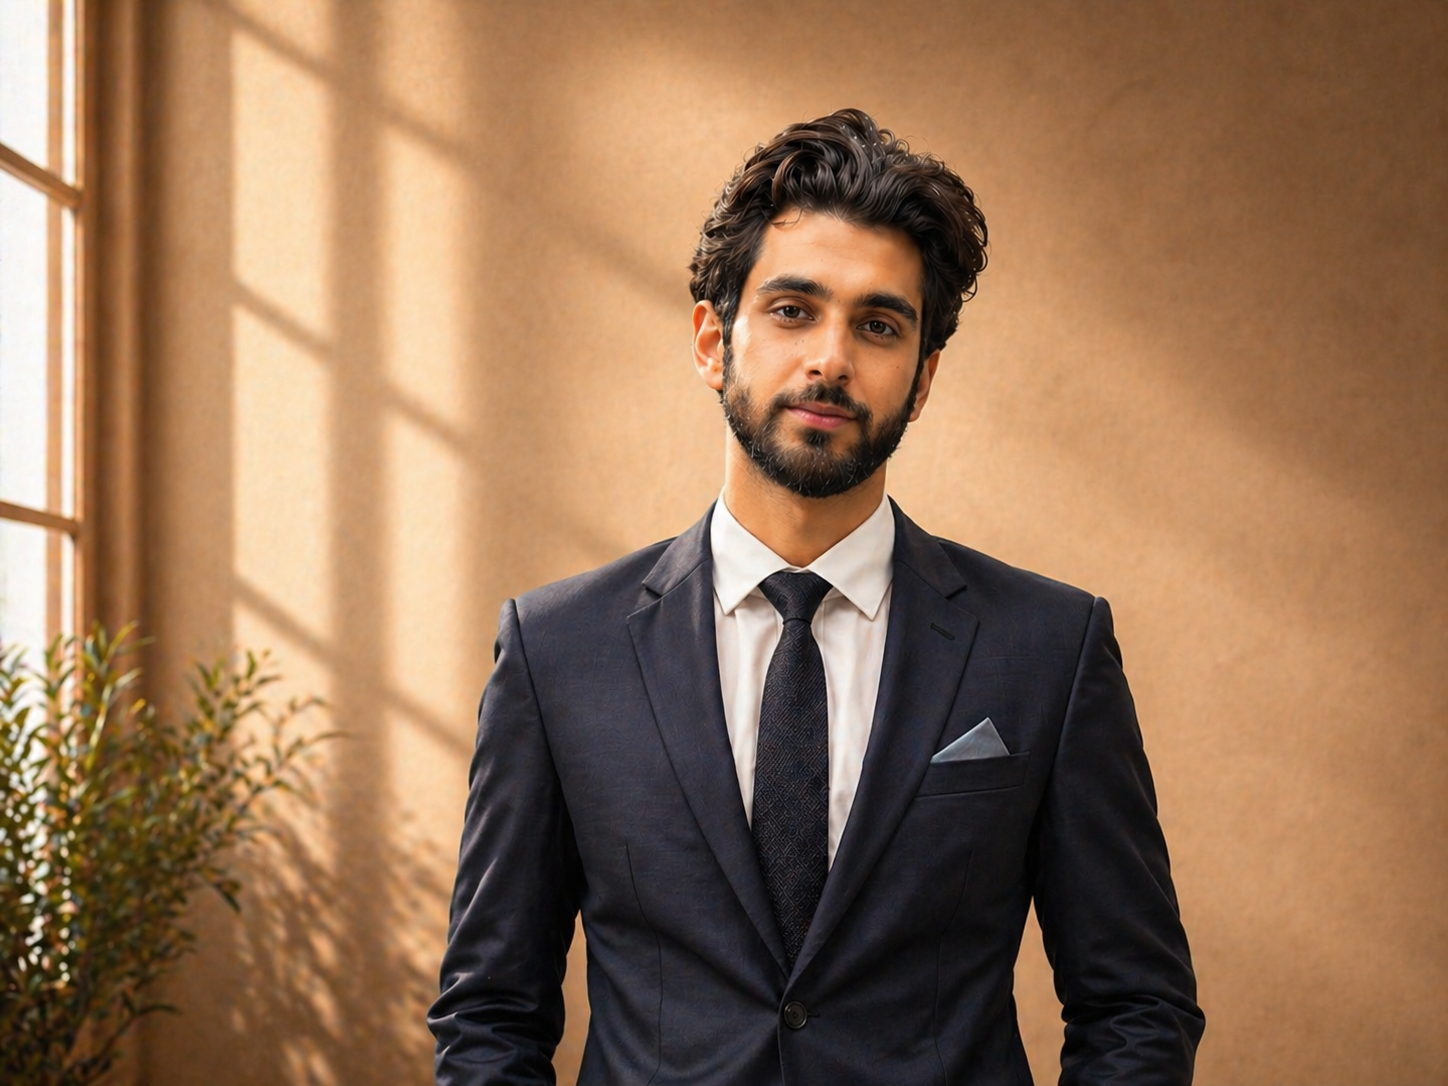
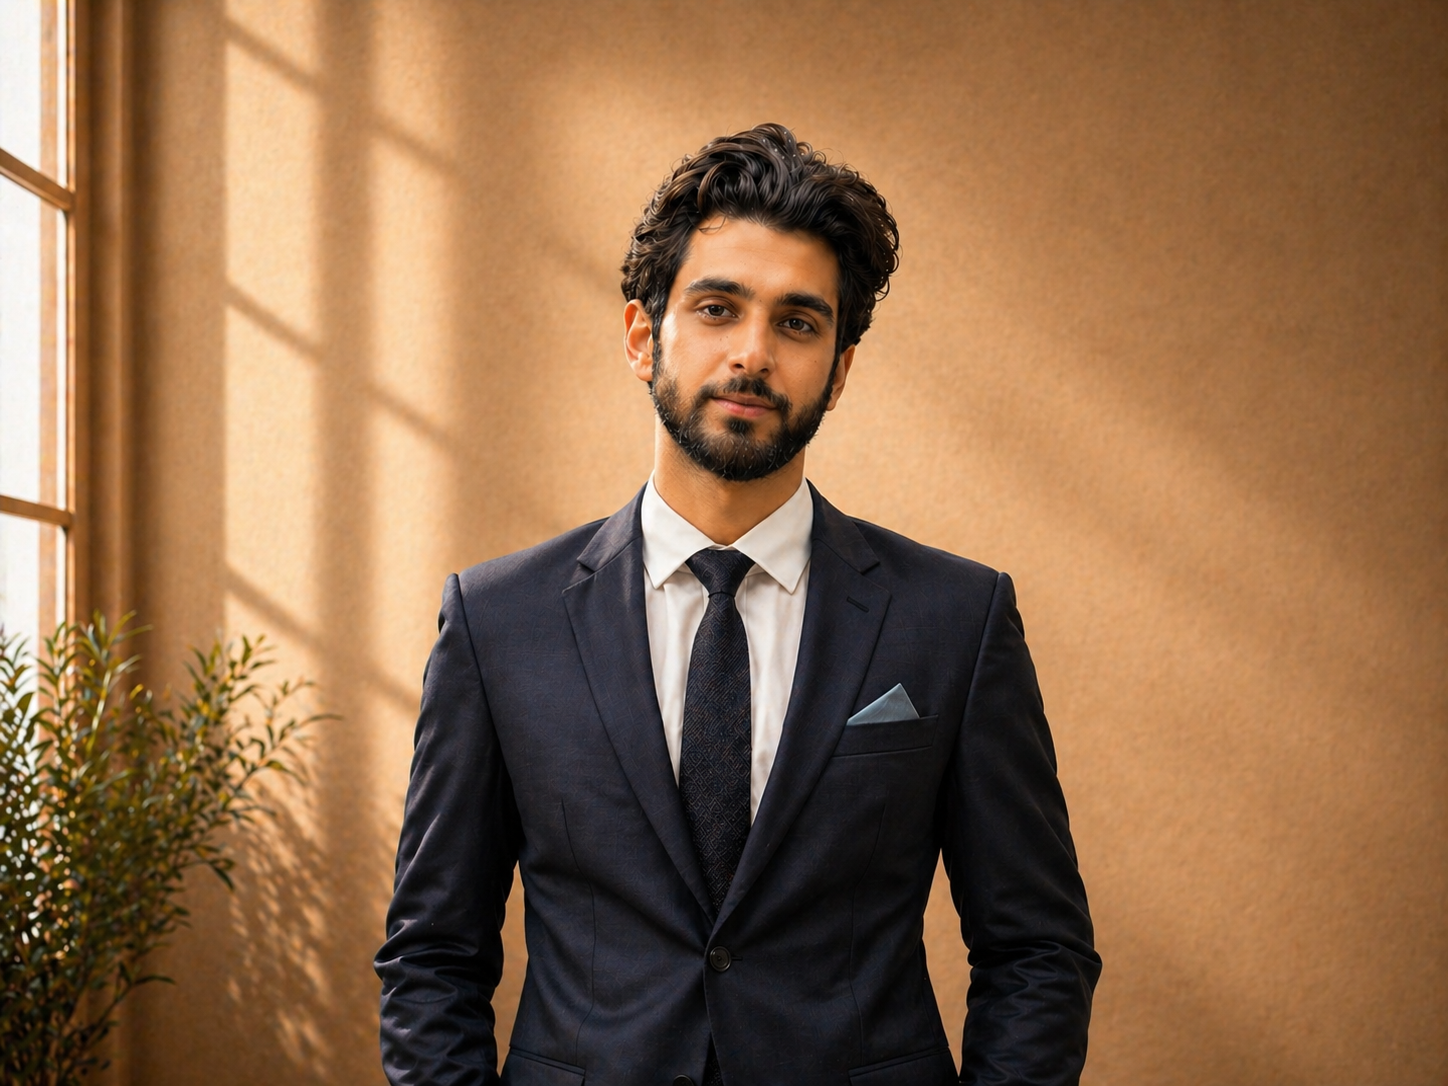
Img Updated

diff --git a/src/components/Hero.jsx b/src/components/Hero.jsx
@@ -1,11 +1,12 @@
 import Heroimg from "@/assets/test1.jpeg";
-import test3 from "@/assets/sqaureCheck.jpeg";
-import test2 from "@/assets/test/test2.png"
+import eye from "@/assets/eye.png";
+import test3 from "@/assets/heroImg.png"
+import test4 from "@/assets/heroImg2.png"
 import { Crosshair, Star } from "lucide-react";
 
 function Hero() {
   const isPc = window.innerWidth;
-  const src = isPc > 809 ? test2 : test3;
+  const src = isPc > 809 ? test4 : test2;
 
   return (
     <div className="bg-[#111111] md:rounded-t-2xl md:gap-5 md:h-[clamp(530px,60vw,620px)] pt-35 md:pt-0  w-full xl:h-[clamp(700px,49vw,100rem)]  flex md:flex-row flex-col md:items-center justify-between  border-box overflow-hidden">
@@ -41,20 +42,20 @@ function Hero() {
           <h1 className="font-antonSC w-fit text-[calc(100cqw*0.2)] md:text-[clamp(5rem,12.1vw,30rem)] xl:text-[clamp(5rem,12.8vw,33rem)]  overflow-hidden leading-[0.95]  ">
             STRATEGY
           </h1>
-          <div className="w-full flex md:flex-row flex-col gap-2 items-end overflow-x-hidden">
-            <div className=" h-[clamp(135px,56vw,280px)] p-1 md:h-[clamp(8rem,17vw,50rem)] w-full min-[475px]:w-105 md:w-1/2   bg-white  text-black order-2 md:order-1 ">
+          <div className="w-full flex md:flex-row flex-col gap-2 items-start overflow-x-hidden">
+            <div className=" h-[clamp(135px,56vw,280px)] p-0.5 md:h-[clamp(8rem,17vw,50rem)] w-full min-[475px]:w-105 md:w-1/2   bg-white  text-black order-2 md:order-1 ">
               <img
                 className="rounded-2xl object-cover h-full w-full"
-                src={test2}
+                src={eye}
                 alt=""
               />
             </div>
 
-            <div className=" flex  md:flex-col h-fit   min-w-0 md:w-fit  items-start justify-start   leading-none order-1 md:order-2 ">
-              <h1 className="font-antonSC text-[calc(100cqw*0.19)] md:text-[clamp(3.9rem,8.5vw,20rem)]  xl:text-[clamp(4rem,8.9vw,20rem)] w-fit leading-none overflow-hidden   ">
+            <div className=" flex  md:flex-col h-fit   min-w-0 md:w-fit  items-start justify-start gap-1 md:gap-0  leading-none order-1 md:order-2 ">
+              <h1 className="font-antonSC text-[calc(100cqw*0.21)] md:text-[clamp(3.9rem,8.5vw,20rem)]  xl:text-[clamp(4rem,8.9vw,20rem)] w-fit leading-none overflow-hidden   ">
                 MEETS
               </h1>
-              <h1 className="font-antonSC text-[calc(100cqw*0.19)] md:text-[clamp(3.9rem,8.7vw,20rem)] xl:text-[clamp(3.9rem,9vw,20rem)] w-fit overflow-hidden leading-none ">
+              <h1 className="font-antonSC text-[calc(100cqw*0.21)] md:text-[clamp(3.9rem,8.7vw,20rem)] xl:text-[clamp(3.9rem,9vw,20rem)] w-fit overflow-hidden leading-none ">
                 VISION
               </h1>
             </div>

diff --git a/src/components/chooseUs/ChooseCard.jsx b/src/components/chooseUs/ChooseCard.jsx
@@ -1,8 +1,10 @@
 import React from "react";
 
-function ChooseCard({title,desc}) {
+function ChooseCard({img,title,desc}) {
   return (
-    <div className="xl:h-full md:h-[570x] min-h-50  order-2 md:order-1 xl:order-2 px-5 leading-none gap-3 flex flex-col items-center py-7 justify-end text-[22px] md:text-[26px] xl:text-[34px] text-white rounded-lg md:rounded-3xl bg-[#111111] ">
+    <div className={`relative xl:h-full md:h-[570x] min-h-50  z-0   order-2 md:order-1 xl:order-2 px-5 leading-none gap-3 flex flex-col items-center py-7 justify-end text-[22px] md:text-[26px] xl:text-[34px] text-white rounded-lg md:rounded-3xl `}>
+      <img src={img} alt=""  className="absolute top-0 left-0 -z-2 lg:rounded-lg md:rounded-3xl h-full w-full object-cover"/>
+      <div className="absolute top-0 left-0 bg-black h-full w-full opacity-70 bg-linear-to-t  -z-1"></div>
       <h1 className="font-antonSC tracking-wide text-center">
         {title}
       </h1>

diff --git a/src/components/OurWorkCard.jsx b/src/components/OurWorkCard.jsx
@@ -3,13 +3,13 @@ import PricingButton from "./pricing/PricingButton";
 
 function OurWorkCard({year, category,title,src}) {
   return (
-    <div className=" relative bg-white  p-0.5 gap-0.5 flex flex-col  md:h-130 md:w-[clamp(740px,70vw,850px)] origin-top  overflow-hidden">
+    <div className=" relative bg-white  p-0.5 gap-0.5 flex flex-col  md:h-130 md:w-[clamp(740px,70vw,850px)]   overflow-hidden">
       {" "}
-      <div className="w-full h-full ">
+      <div className="w-full ">
         <img
           src={src}
           alt={title}
-          className="h-full w-full object-cover rounded-md"
+          className=" w-full object-cover rounded-md"
         />
       </div>
       <div className="w-full p-5 h-full gap-8 flex flex-col justify-start items-start bg-[#111111]   rounded-md ">

diff --git a/src/data/Work.js b/src/data/Work.js
@@ -2,6 +2,7 @@ import marketingImg from "@/assets/workimages/marketingImg.png"
 import DevelopmentImg from "@/assets/workimages/developmentWorkImg.png"
 import shopifyImg from "@/assets/workimages/testinnew.png"
 import editingImg from "@/assets/workimages/editingWorkImg.png"
+import workImg from "@/assets/workimages/workImg.png"
 
 const projects = [
   {
@@ -16,7 +17,7 @@ const projects = [
     title: "Essar Will Tell",
     year: "2026",
     category: "Graphic Design",
-    src: "https://picsum.photos/id/1016/800/600",
+    src: workImg,
   },
   {
     id: 2,

diff --git a/src/components/chooseUs/ChooseUS.jsx b/src/components/chooseUs/ChooseUS.jsx
@@ -13,7 +13,7 @@ function ChooseUS() {
         <div className="grid grid-cols-2 xl:grid-cols-3 mb-20 gap-0.5 min-h-178.25 md:h-212 xl:h-185 w-full bg-white p-0.5">
          {
           highlightsData.map((data,idx)=>{
-           return <ChooseCard key={data.id} title={data.title} desc={data.desc} />
+           return <ChooseCard key={data.id} img={data.img} title={data.title} desc={data.desc} />
           })
          }
           <ChooseSmallCard />

diff --git a/src/data/Team.js b/src/data/Team.js
@@ -3,7 +3,7 @@ import taimoorImg from "@/assets/team/taimoorImg.png";
 import saffiImg from "@/assets/team/saffiImg.png";
 import usamaImg from "@/assets/team/usamaImg.png";
 import essarImg from "@/assets/team/essarImg.png";
-import danyalImg from "@/assets/team/danyalImg.jpeg";
+import danyalImg from "@/assets/team/danyalImg.png";
 const teamMembers = [
   {
     id: 1,

diff --git a/src/data/chooseus2.js b/src/data/chooseus2.js
@@ -1,8 +1,10 @@
+import bgImg from "@/assets/SeasonedProfessionals.png";
 const highlightsData = [
   {
     id: 0,
     title: "Seasoned Professionals",
     desc: "Every project is handled by experts who have been in the field and know what actually works.",
+    img: bgImg,
   },
   {
     id: 1,

diff --git a/src/components/AboutPage/Hero.jsx b/src/components/AboutPage/Hero.jsx
@@ -1,5 +1,4 @@
 import React, { useState, useEffect, useCallback, useRef } from "react";
-import Img from "@/assets/AboutHero.jpg";
 import circleImg from "@/assets/circles.svg";
 
 function Hero() {
